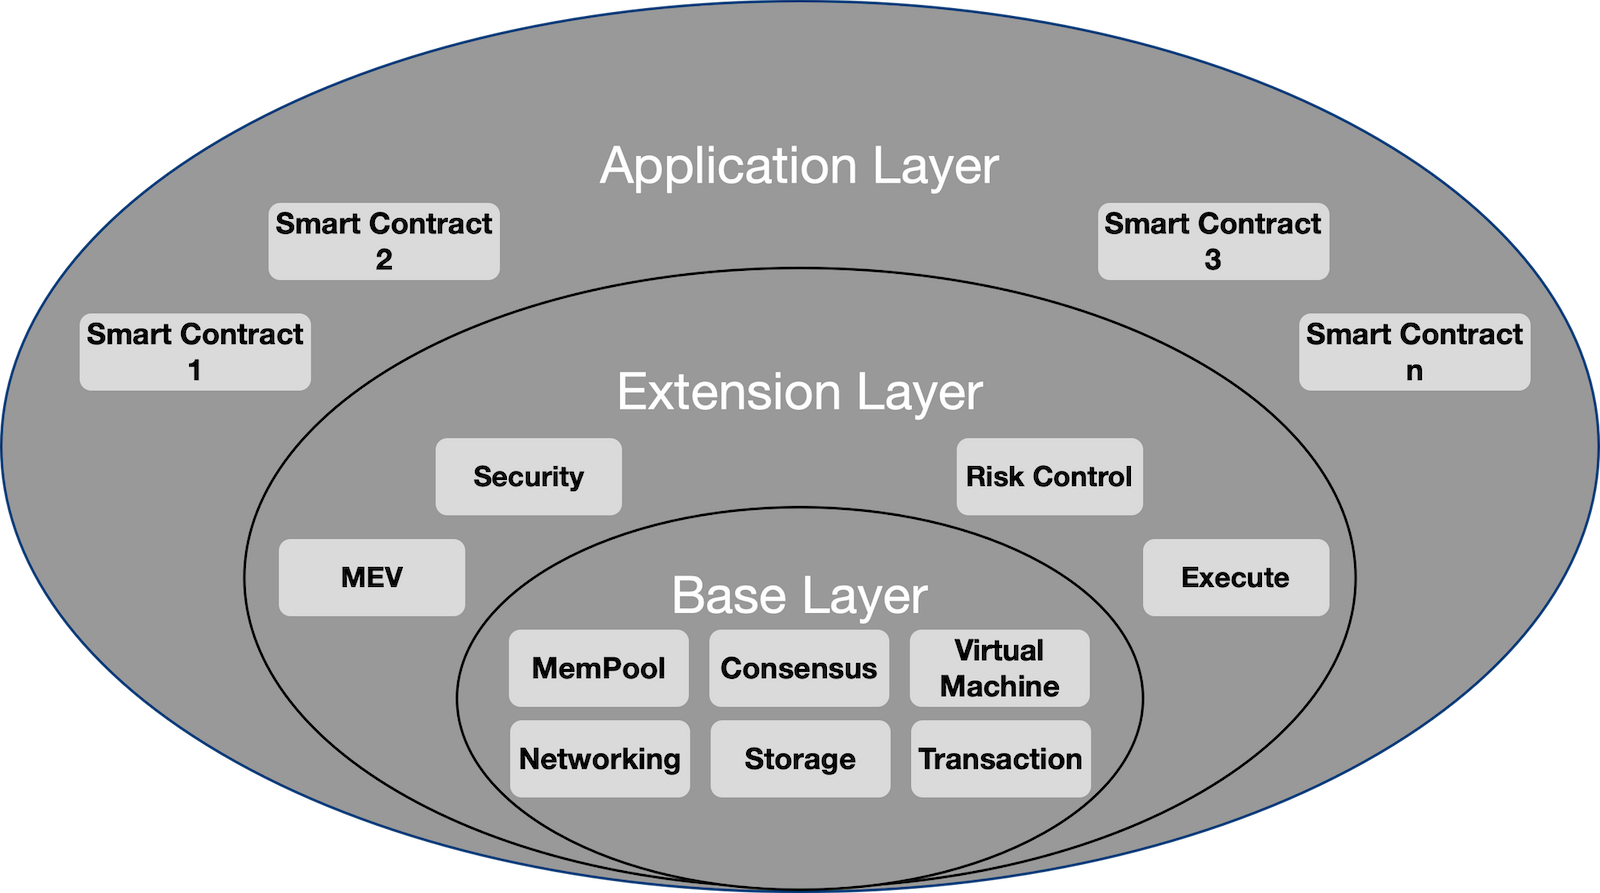
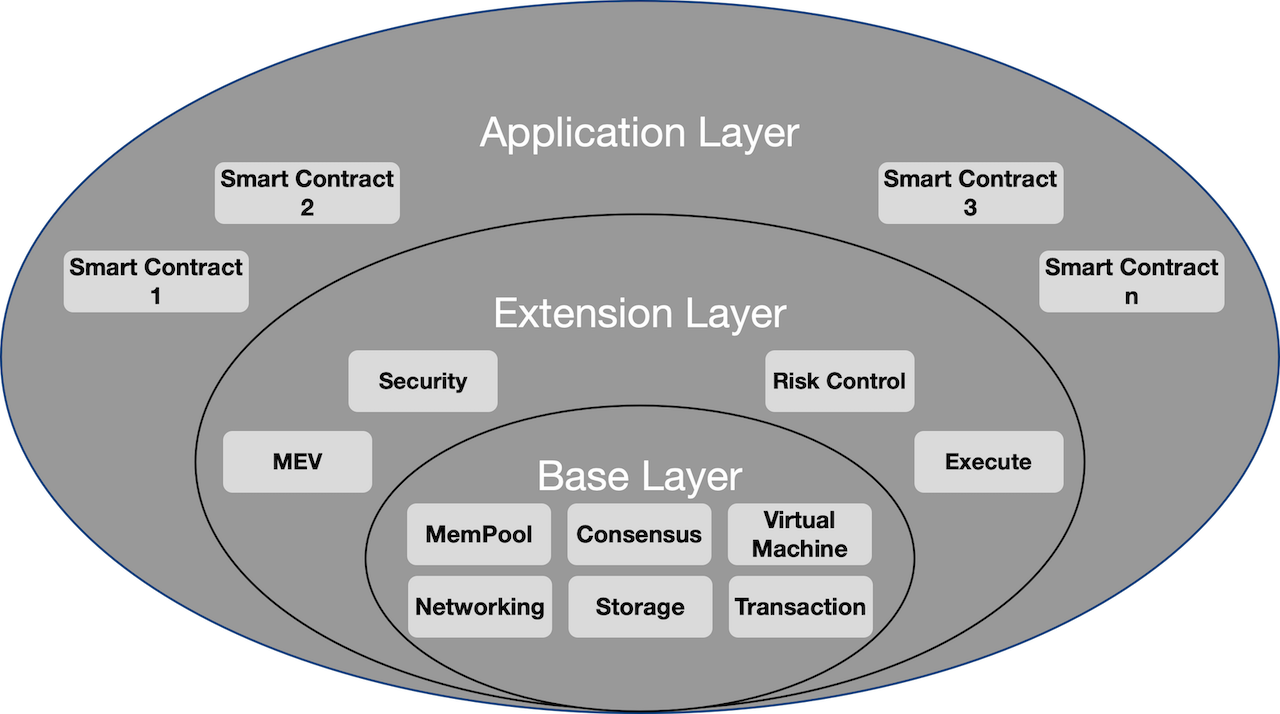
fix: image resize.

diff --git a/docs/Core-Concepts/01-Chain-Native-Pattern.md b/docs/Core-Concepts/01-Chain-Native-Pattern.md
@@ -10,7 +10,13 @@ Under the Chain-Native Pattern, the blockchain has high extensibility, and devel
 
 Compared with traditional blockchains, Chain-Native adds an extension layer, which is a 3-layer abstract structure of the blockchain: application layer, extension layer, and base layer.
 
-![1](./img/1.png)
+<center>
+<img
+  src={require('./img/1.png').default} 
+  alt="1"  
+  width="70%"
+/>
+</center>
 
 - **Application Layer:** Developers deploy Smart Contracts in the application layer to implement the core business logic of dApps. The application layer provides an execution environment consistent with traditional EVM blockchains, and is compatible with existing infrastructure (ChainLink, TheGraph, etc.).
 - **Extension Layer:** The extension layer is the deployment and execution environment of Native Extension, which can be customized by developers. Native Extension realizes the ability extension of the underlying layer of the blockchain by calling the API of the base layer. Different Native Extensions and Smart Contracts can be combined with each other. Since Native Extension is security isolated and has a complete upgrade and version control strategy, the exception of Native Extension will not affect the overall network execution and other non-dependent dApps.
@@ -24,7 +30,13 @@ Based on the Chain-Native Pattern, it is possible for developers to build more p
 
 Chain-Native Pattern provides developers with the ability to build and run Native Extension. dApps under Chain-Native Pattern consist of Smart Contracts, Native Extension, and BaseLayer API.
 
-![2](./img/2.png)
+<center>
+<img
+  src={require('./img/2.png').default} 
+  alt="2"  
+  width="70%"
+/>
+</center>
 
 **Smart Contract:**
 

diff --git a/docs/Core-Concepts/02-Aspect-Programming.md b/docs/Core-Concepts/02-Aspect-Programming.md
@@ -20,7 +20,13 @@ Aspect can not only be combined with Smart Contracts to build decentralized appl
 
 The operation principle of Aspect is shown in the figure:
 
-![3](./img/3.png)
+<center>
+<img
+  src={require('./img/3.png').default} 
+  alt="3"  
+  width="80%"
+/>
+</center>
 
 The composability of Aspect can help developers build deeply customized decentralized applications, which is realized by arranging execution, that is, developers can customize the execution position of Aspect.
 
@@ -28,13 +34,25 @@ Artela Network supports the insertion of Aspect in the following ranges: Block I
 
 The range of Aspect that can be orchestrated is shown in the figure:
 
-![4](./img/4.png)
+<center>
+<img
+  src={require('./img/4.png').default} 
+  alt="4"  
+  width="80%"
+/>
+</center>
 
 The goal of Aspect is to help developers achieve richer functionality with Smart Contract, so there is a clear boundary between Aspect and Smart Contract, that is, Aspect cannot write/modify/delete Smart Contract's state data, create new Smart Contracts, or transfer/destroy/hold native tokens.
 
 In order to further enhance the extension capability of Aspect, support off-chain computing, Artela Network plans to support Heterogeneous Aspects in the future, and the difference between the currently supported Built-in Aspects and Heterogeneous Aspects is shown in the table:
 
-![5](./img/5.png)
+<center>
+<img
+  src={require('./img/5.png').default} 
+  alt="5"  
+  width="80%"
+/>
+</center>
 
 ---
 

diff --git a/docs/Build-with-Artela/01-Lite-DApp.md b/docs/Build-with-Artela/01-Lite-DApp.md
@@ -9,7 +9,13 @@ Aspect, as a modular extension component for sustainable integration, does not r
 
 The principle of Lite dApp on Artela Network is shown in the figure below:
 
-![1](./img/1.png)
+<center>
+<img
+  src={require('./img/1.png').default} 
+  alt="1"  
+  width="70%"
+/>
+</center>
 
 ---
 
@@ -19,5 +25,10 @@ Artela Network is compatible with the EVM architecture and can seamlessly integr
 
 Developers can build decentralized lending protocols on Artela Network with seamless integration of ChainLink's price feed. This includes liquidity management related to asset lending and borrowing, account health checks, asset oracle price aggregation, and other smart contract implementations. This dApp development pattern is referred to as Lite dApp on Artela Network. The specific diagram is shown below:
 
-![2](./img/2.png)
-
+<center>
+<img
+  src={require('./img/2.png').default} 
+  alt="2"  
+  width="90%"
+/>
+</center>

diff --git a/docs/Build-with-Artela/02-Rich-DApp.md b/docs/Build-with-Artela/02-Rich-DApp.md
@@ -12,7 +12,13 @@ Additionally, Rich dApp can be built in a modular way, such as using Smart Contr
 
 The principle of Rich dApp in Artela Network is shown in the following figure:
 
-![3](./img/3.png)
+<center>
+<img
+  src={require('./img/3.png').default} 
+  alt="3"  
+  width="70%"
+/>
+</center>
 
 ---
 
@@ -29,4 +35,10 @@ In this case, Aspect uses a non-intrusive way to incorporate with the core DeFi 
 
 By using smart contracts and Aspects, it is possible to build DeFi protocols with fund risk control abilities. This development pattern is called Rich dApp on the Artela Network, as shown below:
 
-![4](./img/4.png)
+<center>
+<img
+  src={require('./img/4.png').default} 
+  alt="4"  
+  width="90%"
+/>
+</center>

diff --git a/docs/Build-with-Artela/03-Public-Service.md b/docs/Build-with-Artela/03-Public-Service.md
@@ -10,7 +10,13 @@ Public Service is the technical implementation of modular pattern. Artela provid
 
 The principle of Public Service in Artela Network is shown in the figure below:
 
-![5](./img/5.png)
+<center>
+<img
+  src={require('./img/5.png').default} 
+  alt="5"  
+  width="70%"
+/>
+</center>
 
 ---
 
@@ -22,4 +28,10 @@ Developers can use Aspect to build native Smart Contract timers within Artela Ne
 
 This model of building public services is called Public Service in Artela Network, as illustrated below:
 
-![6](./img/6.png)
+<center>
+<img
+  src={require('./img/6.png').default} 
+  alt="6"  
+  width="90%"
+/>
+</center>

diff --git a/docs/main.md b/docs/main.md
@@ -1,3 +1,7 @@
+---
+sidebar_position: 1
+---
+
 # Introduction
 
 ## What is Artela?
